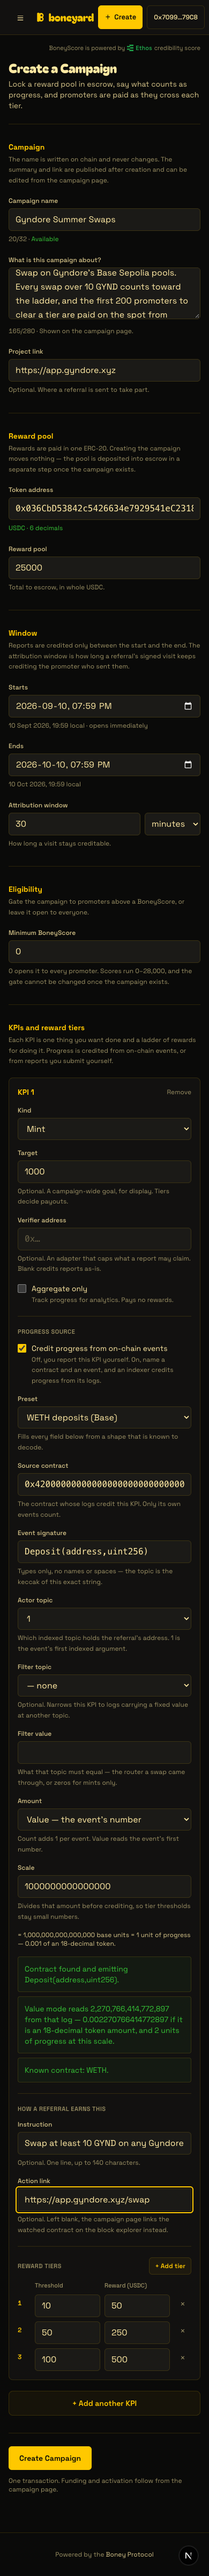
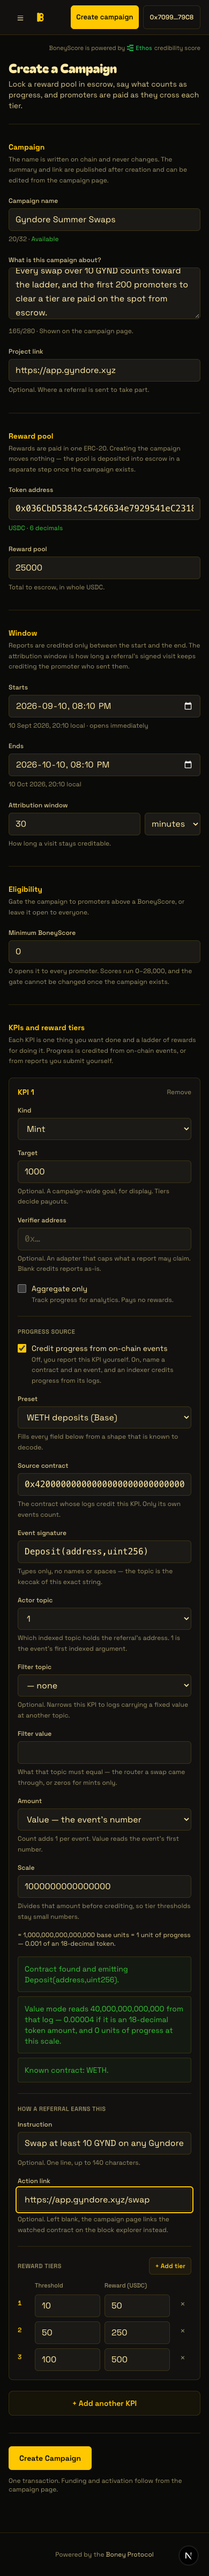
Keep the full Create label in the phone header
Below sm the mark carries the brand alone, which frees the ~100px the
wordmark took and lets the button read "Create campaign" rather than
"Create". The decorative plus waits for sm. The wallet chip now fills its
wrapper so its truncation engages instead of spilling past a 320px row.
Measured at 320/360/375/390/414: no overflow, no truncation from 360 up.

Claude-Session: https://claude.ai/code/session_01VqNJywrMPdSpZ1c2ewj9HX

diff --git a/web/src/components/AppShell.tsx b/web/src/components/AppShell.tsx
@@ -73,9 +73,11 @@ function WalletButton() {
         type="button"
         onClick={() => (isConnected ? disconnect() : injected && connect({connector: injected}))}
         disabled={isPending || (!isConnected && !injected)}
-        // `truncate` needs a width constraint to have anything to truncate against; in the bar
-        // that is a max-width, so a long address ellipses instead of squeezing the nav.
-        className="min-h-11 max-w-[11rem] truncate rounded-md border border-hairline-strong px-3 py-1.5 text-xs font-medium text-ink transition-colors hover:bg-surface-hover disabled:opacity-50 sm:min-h-0"
+        // `truncate` needs a width constraint to have anything to truncate against. The max-width
+        // bounds a long label; `block w-full` is what lets the wrapper's `min-w-0` reach the button —
+        // a button is inline-block, so without it the chip kept its full width and spilled past the
+        // viewport on a 320px row instead of ellipsing.
+        className="block w-full min-h-11 max-w-[11rem] truncate rounded-md border border-hairline-strong px-3 py-1.5 text-xs font-medium text-ink transition-colors hover:bg-surface-hover disabled:opacity-50 sm:min-h-0"
         title={isConnected ? `${address} — click to disconnect` : "Connect an injected wallet"}
       >
         {/* "Connect wallet" is 40px of a 375px bar that has none to spare, and the shorter label
@@ -363,11 +365,13 @@ export function AppShell({children}: {children: ReactNode}) {
           <NavDrawer items={nav} />
 
           {/* The mark leads the wordmark at the same colour and height, so the pair reads as one
-              lockup rather than an icon parked beside a word. Under 360px the word goes and the mark
-              carries the identity alone — the drawer's own header spells it out again on open. */}
+              lockup rather than an icon parked beside a word. Below `sm` the word goes and the mark
+              carries the identity alone — the drawer's own header spells it out again on open. The
+              ~100px it frees is what lets the Create button keep its full label on a phone; the word
+              used to survive down to 360px, and the button paid for it by shrinking to "Create". */}
           <Link href="/" className="flex shrink-0 items-center gap-1.5 text-brand">
             <BoneyB className="h-5 w-auto shrink-0 sm:h-6" />
-            <span className="font-display text-xl lowercase leading-none max-[359px]:hidden sm:text-2xl">
+            <span className="hidden font-display text-2xl lowercase leading-none sm:inline">
               boneyard
             </span>
           </Link>
@@ -394,13 +398,17 @@ export function AppShell({children}: {children: ReactNode}) {
             <Link
               href="/create"
               aria-current={pathname === "/create" ? "page" : undefined}
-              className="flex min-h-11 shrink-0 items-center gap-1.5 rounded-md bg-brand px-3 text-[13px] font-semibold text-plane transition-opacity hover:opacity-90 sm:min-h-0 sm:py-1.5"
+              className="flex min-h-11 shrink-0 items-center gap-1.5 rounded-md bg-brand px-2.5 text-[13px] font-semibold text-plane transition-opacity hover:opacity-90 sm:min-h-0 sm:px-3 sm:py-1.5"
             >
-              <span aria-hidden className="text-xs">
+              {/* The fullwidth plus is 18px with its gap — the exact margin a 360px row lacks. It is
+                  decorative beside a label that already says "Create", so it waits for `sm`. */}
+              <span aria-hidden className="hidden text-xs sm:inline">
                 ＋
               </span>
               <span className="hidden sm:inline">Create a campaign</span>
-              <span className="sm:hidden">Create</span>
+              {/* The article is the one word a 360px row cannot afford; "Create" alone was not a
+                  label, it was a verb. */}
+              <span className="sm:hidden">Create campaign</span>
             </Link>
 
             {/*
